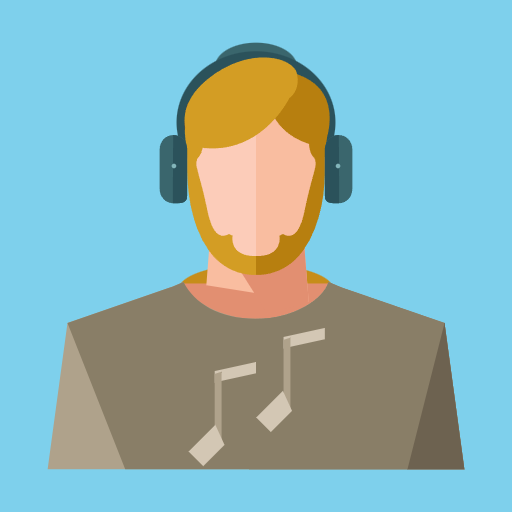
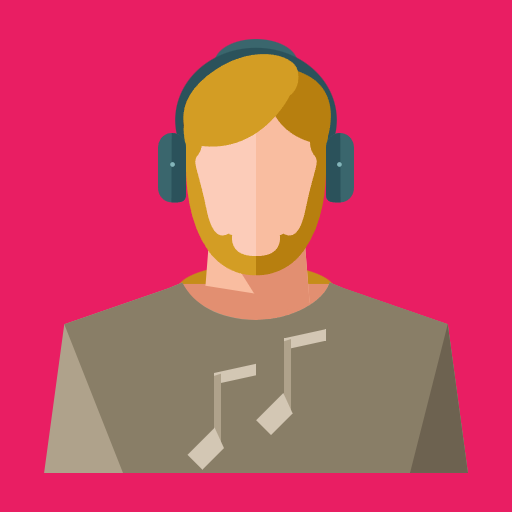
correcting default-profile img

diff --git a/README.md b/README.md
@@ -1,5 +1,4 @@
 # musikos_images
-### Spring 1 - 20/02/2025 - Madrugada - adding brand icon
-
+### Sprint 1 - 21/02/2025 - Mañana - correcting default-profile img
 
 En este repositorio se almacenarán todas las imágenes de músicos y bandas de mi app "BandBros"
